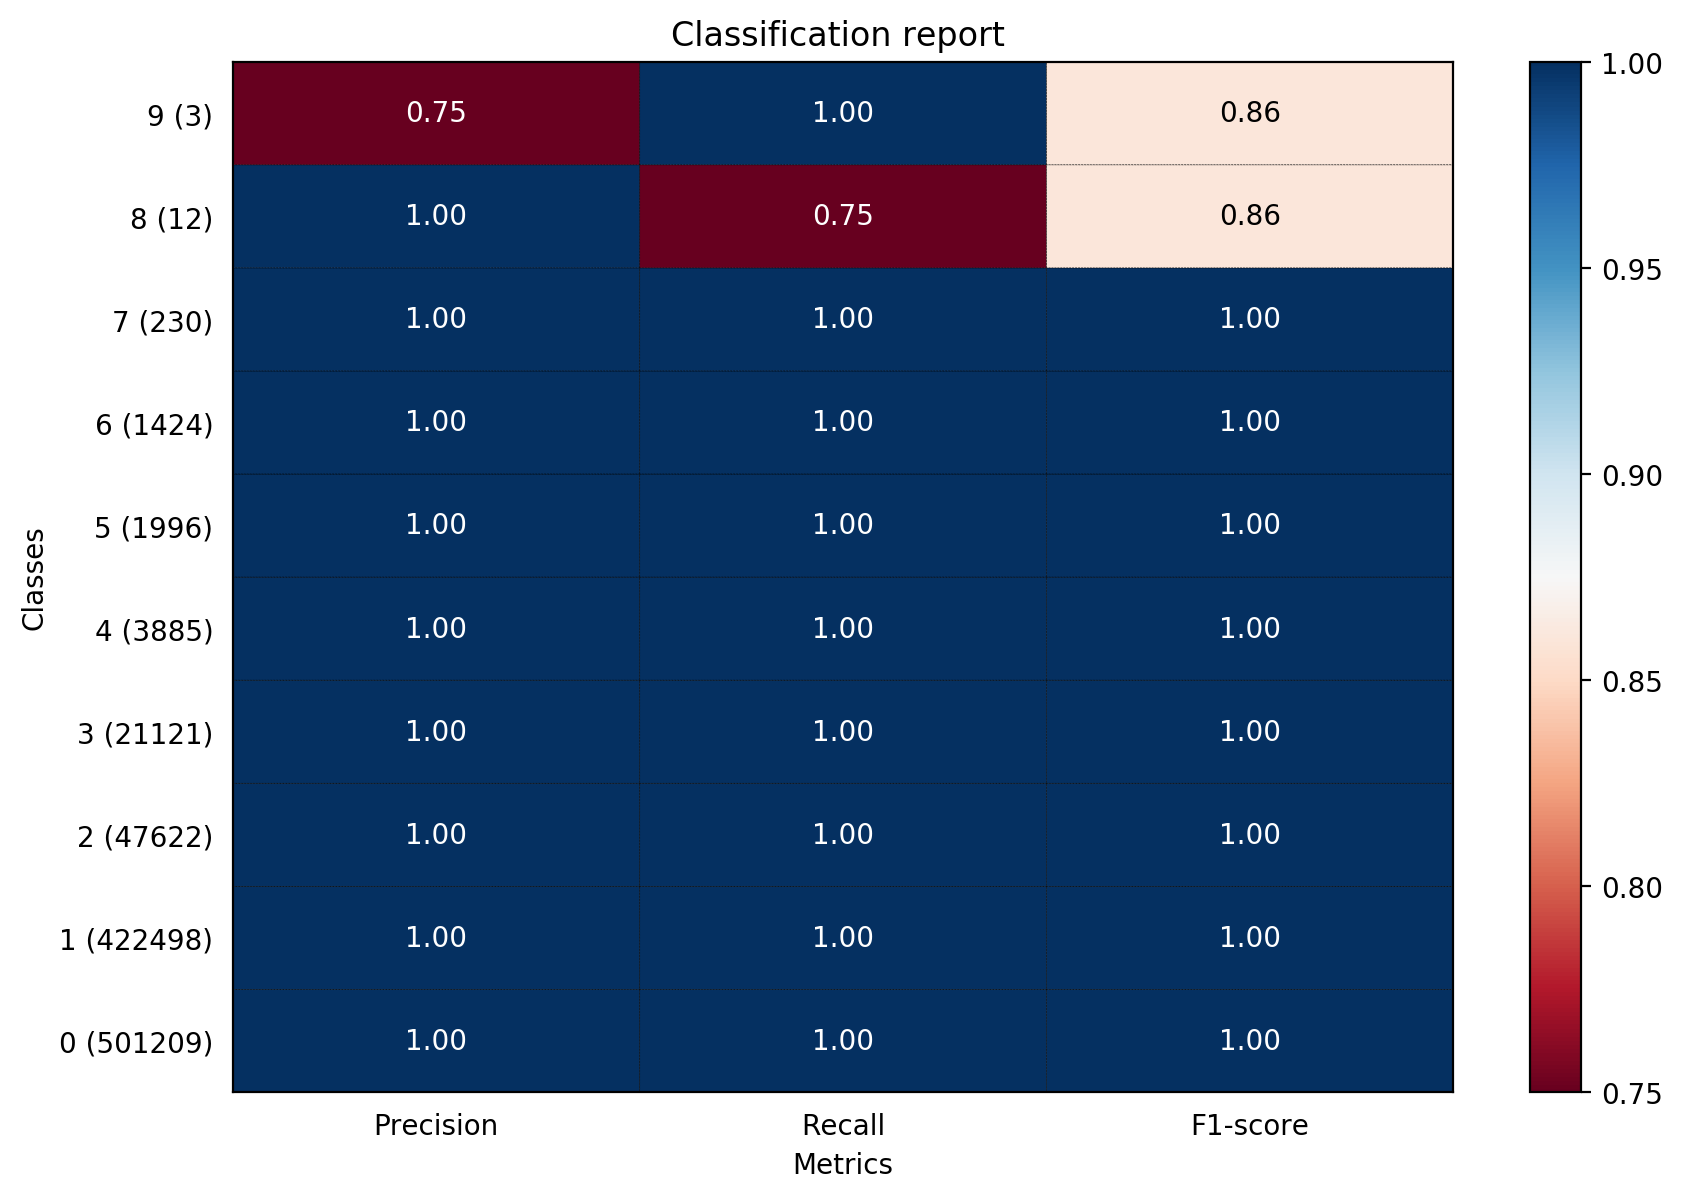
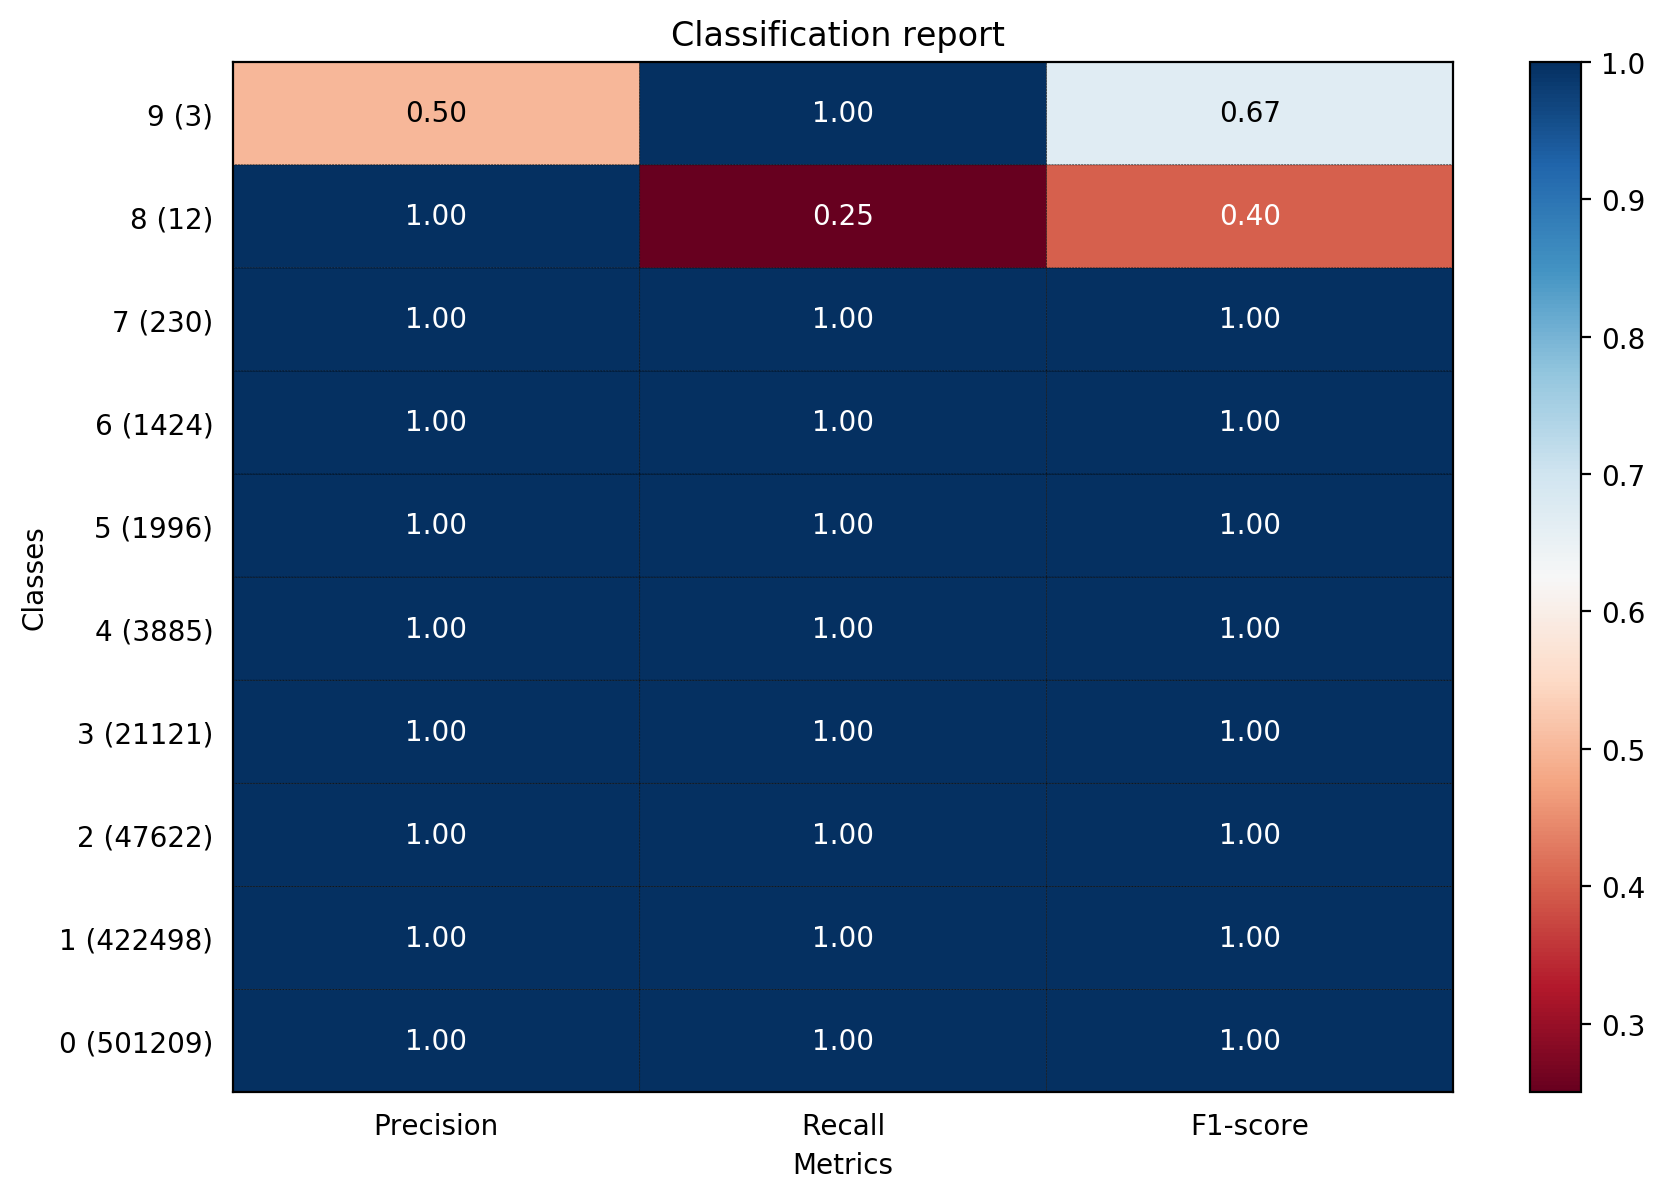
Trigger SVM

diff --git a/UI.py b/UI.py
@@ -600,12 +600,23 @@ class Ui_Form(object):
 
         #Build model ML - tab 3
         def tab3_Display(self):
+                if not self.radioButton_9.isChecked() and not self.radioButton_10.isChecked():
+                        return None
+                
                 t0 = time()
+                if self.radioButton_9.isChecked():
+                        #Build Random Forest model
+                        if self.Model == None:
+                                self.Model = RF(n_estimators = 20)
+                if self.radioButton_10.isChecked():
+                        parameter = [{'kernel': ['rbf'], 'gamma': [1e-3, 1e-4], 'C': [1, 10, 100, 1000]}]
+                        scores = ['precision', 'recall']
+                
+                        self.Model = GridSearchCV(SVC(), parameter)
+                        self.Model.fit(self.Train_Feature.getFeature(self.list_feature), self.Train_Feature.getY()) 
 
-                #Build Random Forest model
-                if self.Model == None:
-                        self.Model = RF(n_estimators = 20)
-                self.Model.fit(self.Train_Feature.getFeature(self.list_feature), self.Train_Feature.getY())
+
+                # self.Model.fit(self.Train_Feature.getFeature(self.list_feature), self.Train_Feature.getY()) 
 
                 t1 = time()
                 self.plainTextEdit.setText(str(round((t1-t0), 2)) + " seconds")

diff --git a/model.py b/model.py
@@ -1,6 +1,8 @@
 from sklearn.ensemble import RandomForestClassifier
 from sklearn.metrics import classification_report
 from sklearn.metrics import accuracy_score
+from sklearn.svm import SVC
+from sklearn.model_selection import GridSearchCV
 import matplotlib.pyplot as plt
 import numpy as np
 import matplotlib.pyplot as plt
@@ -19,6 +21,10 @@ class RF(object):
 
     def report(self, y_actual, y_predict):
         return classification_report(y_actual, y_predict)
+
+# class SVM(object):
+#     def __init__(self):
+#         self.clf = 
 
 def show_values(pc, fmt="%.2f", **kw):
     '''
